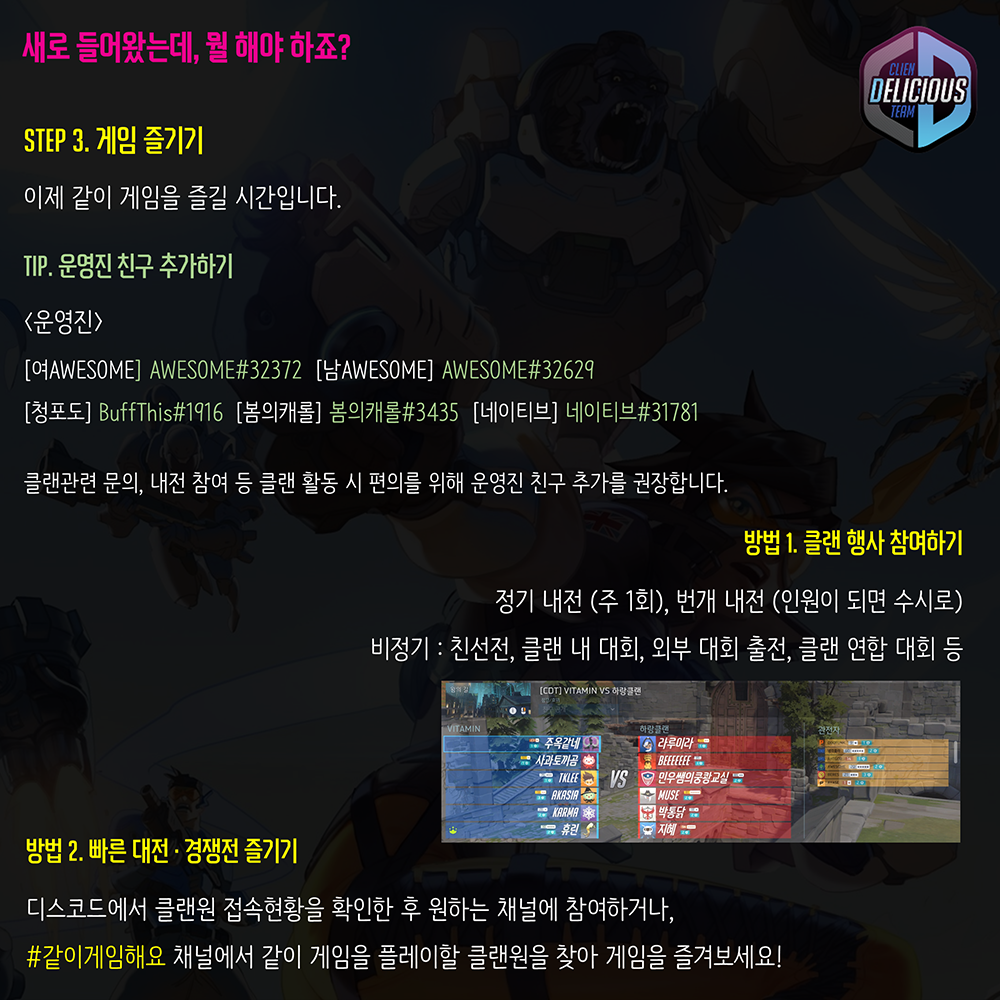
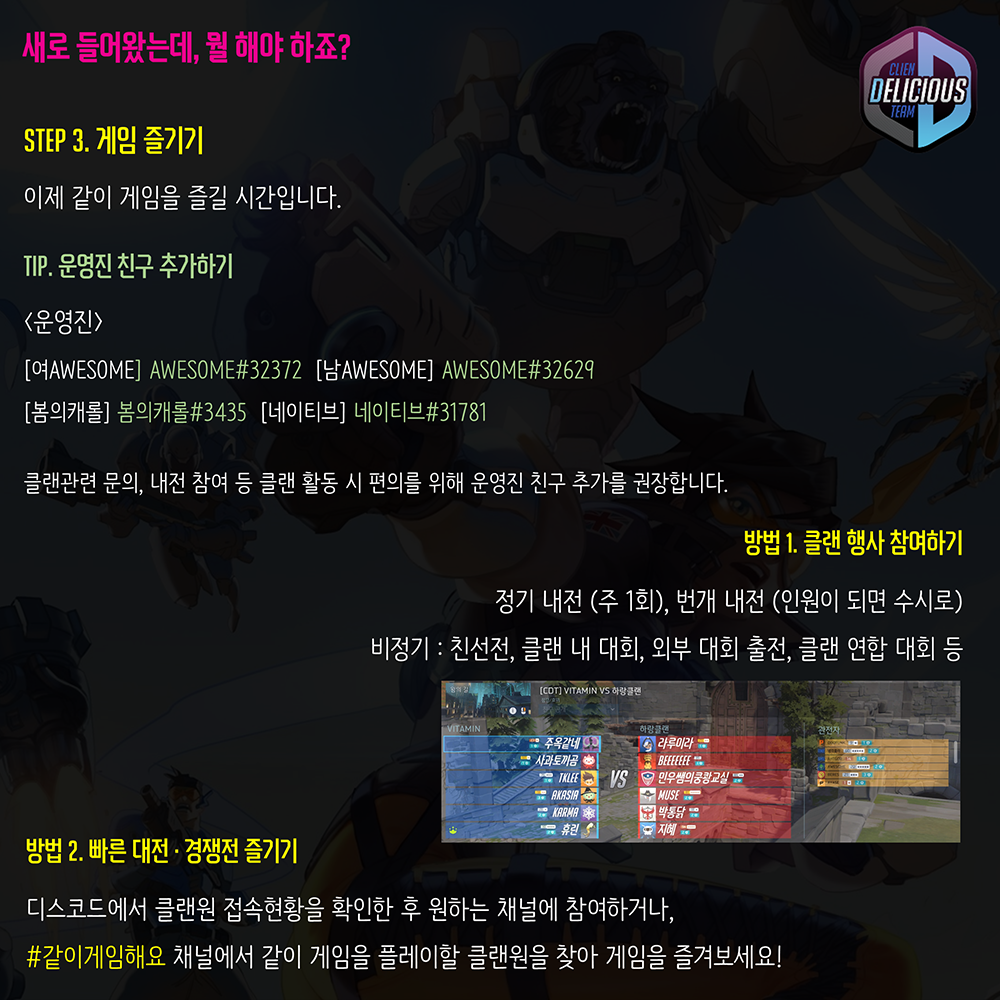
운영진 변경

Changed region(s): [[0.031, 0.403, 0.713, 0.434]]

diff --git a/Athena/System/CBotClient.cs b/Athena/System/CBotClient.cs
@@ -834,7 +834,6 @@ namespace Athena
                     strInfo += "건의사항, 문의사항이 있으실 때는\n";
                     strInfo += "(남)AWESOME(@leek603),\n";
                     strInfo += "(여)AWESOME(@AWESOMEYUU),\n";
-                    strInfo += "청포도(@leetk321),\n";
                     strInfo += "봄의캐롤(@rsmini),\n";
                     strInfo += "네이티브(@nativehyun) 에게\n";
                     strInfo += "문의해주세요.\n\n";
